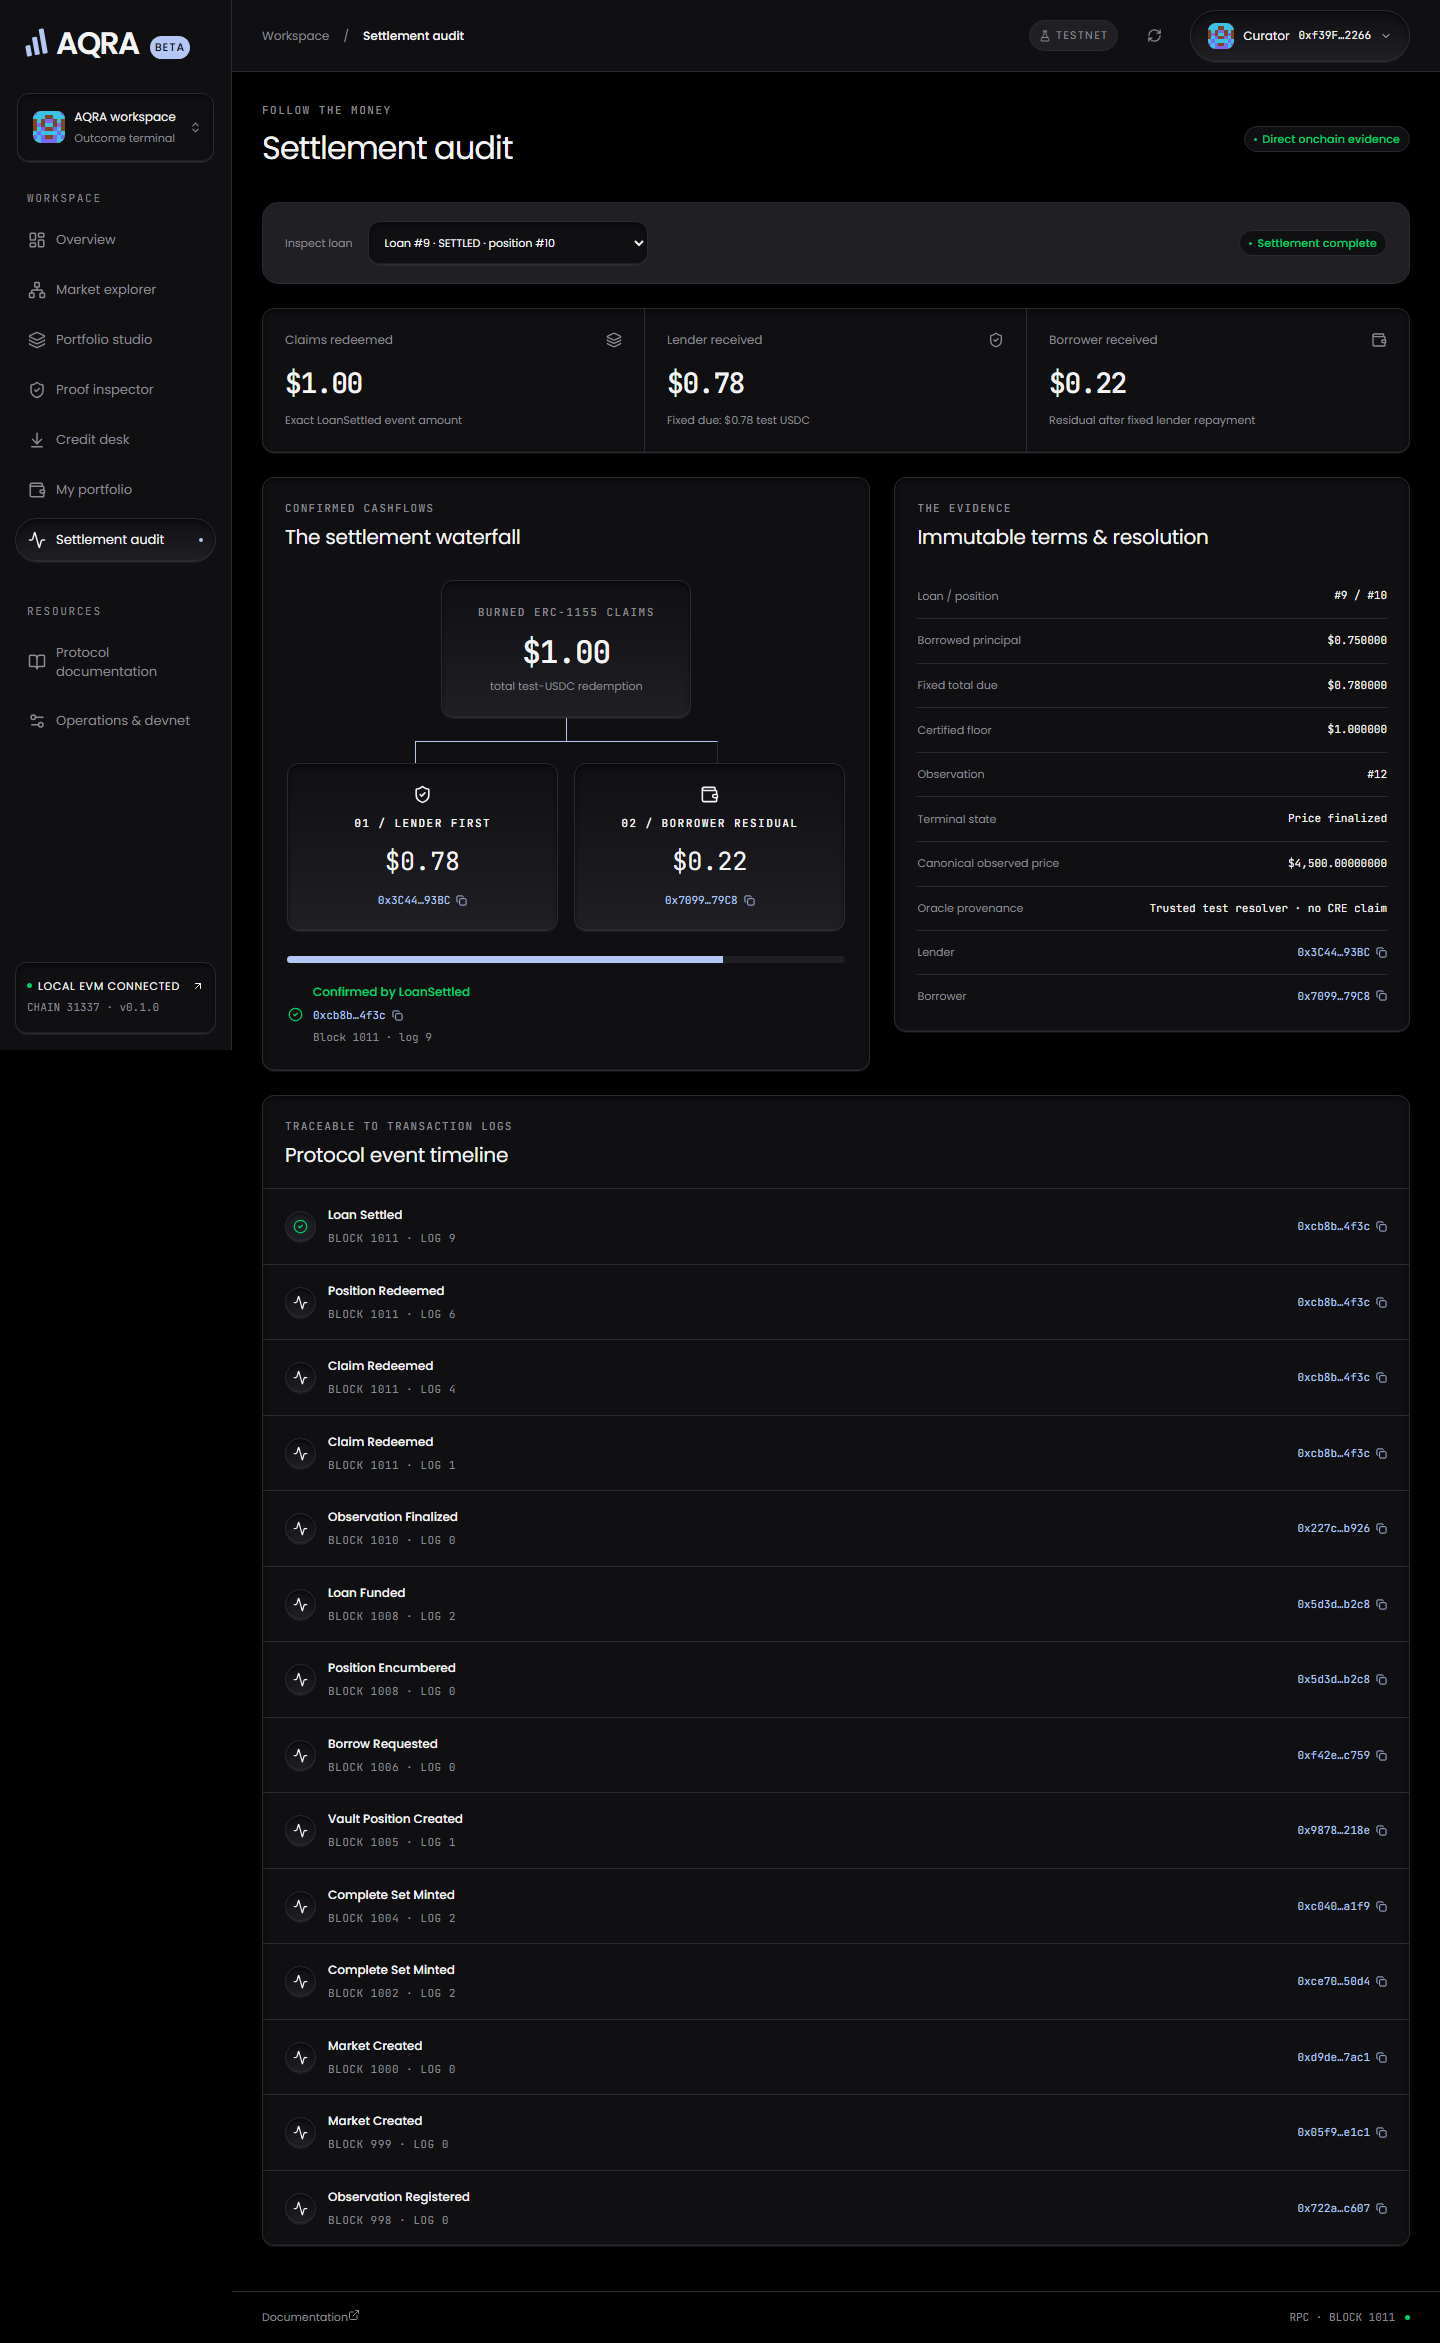
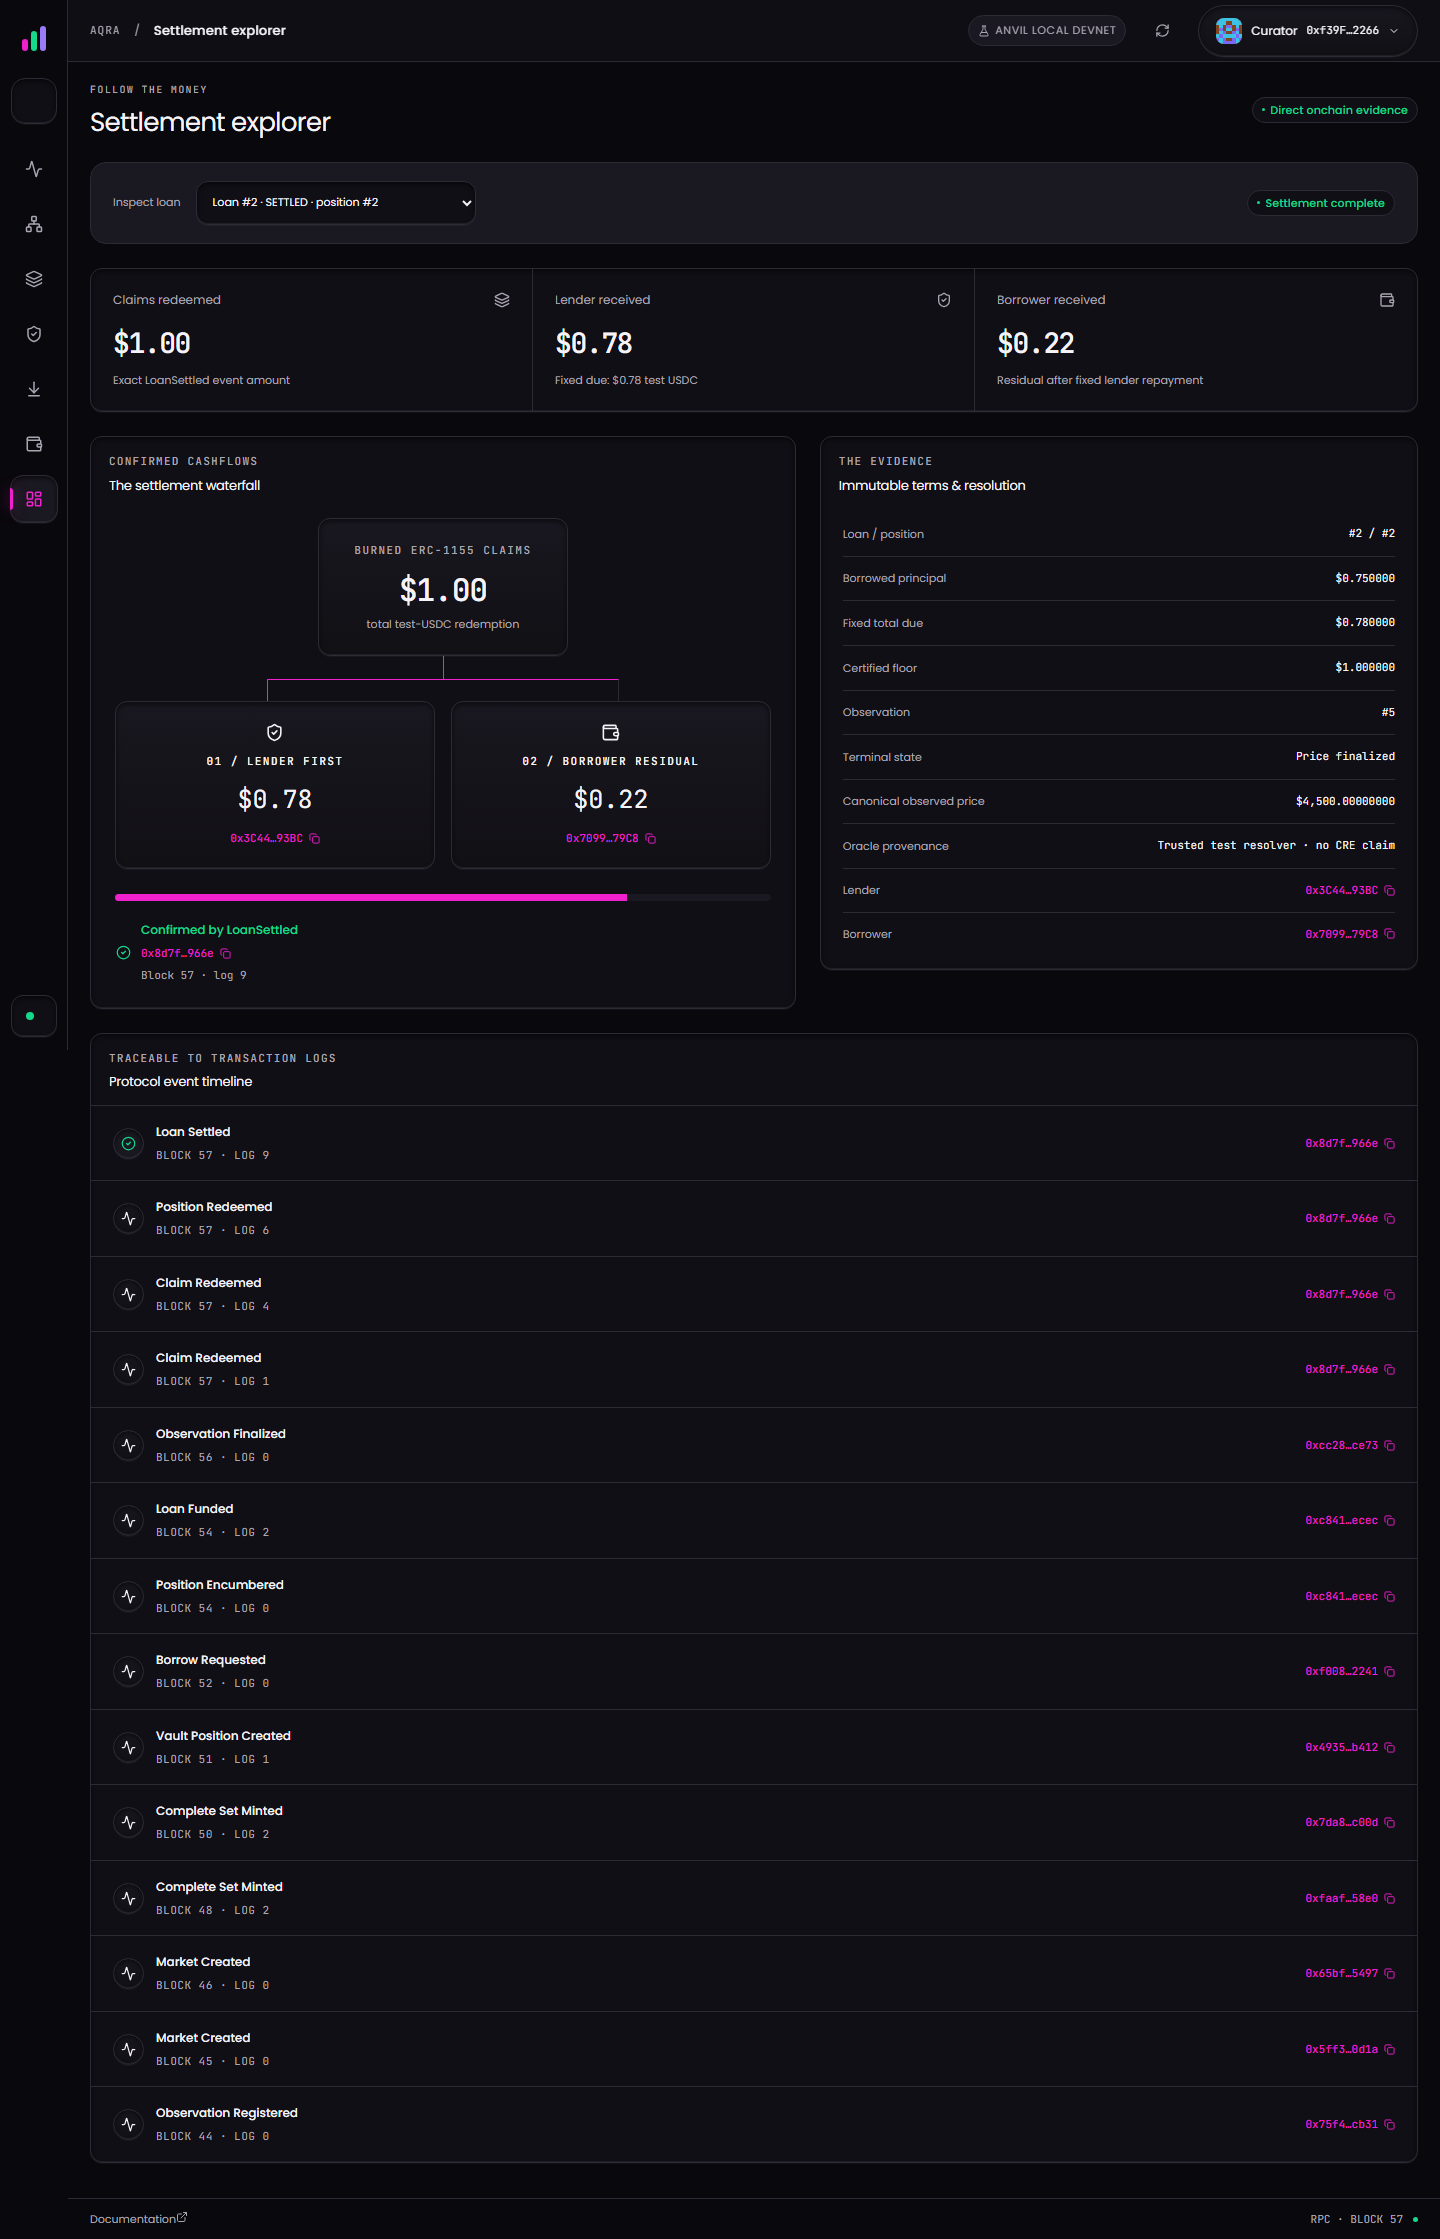
test(e2e): align wallet journeys with market-first UI

diff --git a/e2e/protocol.spec.ts b/e2e/protocol.spec.ts
@@ -10,16 +10,24 @@ const balance=(who:'borrower'|'lender')=>client.readContract({address:d.contract
 const results:unknown[]=[];
 test.describe.serial('wallet-signed outcome collateral lifecycle',()=>{
   test.beforeAll(async()=>{await import('../scripts/differential');});
-  test('interactive command center changes exact payouts and rotates its 3D surface',async({page})=>{
-    await page.goto('/');await expect(page.getByTestId('payoff-surface')).toBeVisible();
-    await expect(page.getByTestId('overview-scenario-payout')).toContainText('$2.00');
-    await page.getByTestId('overview-below').click();await expect(page.getByTestId('overview-scenario-payout')).toContainText('$1.00');
-    await page.getByTestId('overview-cancelled').click();await expect(page.getByTestId('overview-scenario-payout')).toContainText('$1.00');
-    await page.getByTestId('overview-inside').click();
-    const svg=page.getByTestId('payoff-surface').locator('svg'),before=await svg.locator('polygon').first().getAttribute('points'),box=(await svg.boundingBox())!;
-    await page.mouse.move(box.x+box.width*.4,box.y+box.height*.6);await page.mouse.down();await page.mouse.move(box.x+box.width*.6,box.y+box.height*.6,{steps:8});await page.mouse.up();
-    expect(await svg.locator('polygon').first().getAttribute('points')).not.toBe(before);
-    await page.getByRole('button',{name:'State matrix',exact:true}).click();await expect(svg.locator('rect')).toHaveCount(78);
+  test('portfolio composer recalculates payouts for settlement prices and cancellation',async({page})=>{
+    await page.goto('/compose/');await expect(page.getByRole('heading',{name:'Portfolio composer'})).toBeVisible();
+    const payout=page.locator('.chart-summary strong').first();await expect(payout).toContainText('$2.00');
+    const price=page.getByRole('textbox',{name:'Scenario settlement price'});
+    await price.fill('4000');await expect(payout).toContainText('$1.00');
+    await page.getByRole('button',{name:'Explore cancellation result'}).click();await expect(payout).toContainText('$1.00');
+    await page.getByRole('button',{name:'Use price settlement'}).click();
+    await price.fill('5500');await expect(payout).toContainText('$2.00');
+    const slider=page.getByRole('slider',{name:'Explore settlement price'}),before=await slider.inputValue();await slider.focus();await page.keyboard.press('ArrowRight');await expect(slider).not.toHaveValue(before);
+  });
+  test('market terminal mints fully backed complete sets onchain',async({page})=>{
+    await page.goto('/');await expect(page.getByRole('heading',{name:'Market terminal'})).toBeVisible();await connect(page,'borrower');await page.getByRole('tab',{name:/AQRA collateral/}).click();
+    const marketId=BigInt(await page.getByLabel('Choose an AQRA collateral market').inputValue());
+    const yesToken=marketId*2n+1n,noToken=yesToken+1n;
+    const readBalance=(tokenId:bigint)=>client.readContract({address:d.contracts.OutcomeTokens,abi:OutcomeTokensAbi,functionName:'balanceOf',args:[d.roles.borrower,tokenId]});
+    const beforeYes=await readBalance(yesToken),beforeNo=await readBalance(noToken);
+    const mint=page.getByTestId('mint-complete-set');await expect(mint).toBeEnabled();await mint.click();
+    await expect.poll(()=>readBalance(yesToken)).toBe(beforeYes+1n);await expect.poll(()=>readBalance(noToken)).toBe(beforeNo+1n);
   });
   test('outcome palette supports drag and keyboard selection',async({page})=>{
     await page.goto('/compose/');
@@ -51,7 +59,7 @@ test.describe.serial('wallet-signed outcome collateral lifecycle',()=>{
       const observationId=await client.readContract({address:d.contracts.SharedObservationRegistry,abi:SharedObservationRegistryAbi,functionName:'observationCount'});
       await bp.goto('/compose/');await connect(bp,'borrower');
       await bp.getByTestId('lower-market').selectOption(lower.toString());await bp.getByTestId('upper-market').selectOption(upper.toString());
-      const mintButtons=bp.getByRole('button',{name:'Mint a funded complete set'});
+      const mintButtons=bp.getByRole('button',{name:'Mint complete set'});
       await mintButtons.nth(0).click();await expect.poll(()=>client.readContract({address:d.contracts.OutcomeTokens,abi:OutcomeTokensAbi,functionName:'balanceOf',args:[d.roles.borrower,lower*2n+1n]})).toBe(1n);
       await expect(mintButtons.nth(1)).toBeEnabled();await mintButtons.nth(1).click();
       await expect.poll(()=>client.readContract({address:d.contracts.OutcomeTokens,abi:OutcomeTokensAbi,functionName:'balanceOf',args:[d.roles.borrower,upper*2n+2n]})).toBe(1n);
@@ -75,7 +83,7 @@ test.describe.serial('wallet-signed outcome collateral lifecycle',()=>{
       const loanId=await client.readContract({address:d.contracts.CreditDesk,abi:CreditDeskAbi,functionName:'loanCount'});
       expect(await balance('borrower')-beforeBorrower).toBe(750000n);expect(beforeLender-await balance('lender')).toBe(750000n);
       if(scenario==='repaid'){
-        await bp.getByRole('link',{name:'My portfolio',exact:true}).click();
+        await bp.getByRole('link',{name:'Portfolio dashboard',exact:true}).click();
         const b=await balance('borrower'),l=await balance('lender');
         await bp.getByTestId(`repay-${loanId}`).click();
         await expect.poll(async()=>(await client.readContract({address:d.contracts.CreditDesk,abi:CreditDeskAbi,functionName:'getLoan',args:[loanId]})).state).toBe(3);
@@ -89,7 +97,7 @@ test.describe.serial('wallet-signed outcome collateral lifecycle',()=>{
       await op.getByTestId('resolver-observation').selectOption(observationId.toString());await op.getByTestId(`scenario-${scenario}`).click();await expect(op.getByTestId('resolve-observation')).toBeEnabled();await op.getByTestId('resolve-observation').click();
       await expect.poll(async()=>(await client.readContract({address:d.contracts.SharedObservationRegistry,abi:SharedObservationRegistryAbi,functionName:'observation',args:[observationId]})).state).toBe(scenario==='cancelled'?2:1);
       const b=await balance('borrower'),l=await balance('lender');
-      await op.getByRole('link',{name:'Settlement audit',exact:true}).click();await expect(op.getByTestId('settle-loan')).toBeEnabled();await op.getByTestId('settle-loan').click();
+      await op.getByRole('link',{name:'Settlement explorer',exact:true}).click();await expect(op.getByTestId('settle-loan')).toBeEnabled();await op.getByTestId('settle-loan').click();
       await expect(op.getByText('Settlement complete',{exact:true})).toBeVisible();
       const expected=scenario==='inside'?2000000n:1000000n;
       expect(await balance('lender')-l).toBe(780000n);expect(await balance('borrower')-b).toBe(expected-780000n);
@@ -116,7 +124,7 @@ test.describe.serial('wallet-signed outcome collateral lifecycle',()=>{
   });
   test('responsive studio has no document overflow and keyboard controls remain usable',async({page})=>{
     await page.setViewportSize({width:390,height:844});await page.goto('/compose/');
-    await expect(page.getByRole('heading',{name:'Portfolio studio',exact:true})).toBeVisible();
+    await expect(page.getByRole('heading',{name:'Portfolio composer',exact:true})).toBeVisible();
     expect(await page.evaluate(()=>document.documentElement.scrollWidth<=window.innerWidth)).toBe(true);
     await page.getByTestId('lower-units').fill('3');await expect(page.getByTestId('lower-units')).toHaveValue('3');
     await page.screenshot({path:'evidence/screenshots/mobile-studio.png',fullPage:true});

diff --git a/e2e/theme.spec.ts b/e2e/theme.spec.ts
@@ -1,7 +1,7 @@
 import {test,expect} from '@playwright/test';
 test('Kimia foundations, contrast, keyboard chart and wallet focus are usable',async({page})=>{
   await page.goto('/');
-  await expect(page.locator('body')).toHaveCSS('background-color','rgb(0, 0, 0)');
+  await expect(page.locator('body')).toHaveCSS('background-color','rgb(9, 8, 12)');
   await expect(page.locator('body')).toHaveCSS('font-family',/Poppins/);
   await page.evaluate(()=>document.fonts.ready);
   expect(await page.evaluate(()=>document.fonts.check('400 16px Poppins'))).toBe(true);
@@ -13,10 +13,13 @@ test('Kimia foundations, contrast, keyboard chart and wallet focus are usable',a
     return {textRaised:ratio('--color-text-secondary','--color-surface-raised'),textMuted:ratio('--color-text-secondary','--color-surface-muted'),accentText:ratio('--color-on-accent','--color-accent'),control:ratio('--color-border-interactive','--color-surface-muted'),focus:ratio('--color-accent','--color-surface-raised')};
   });
   expect(ratios.textRaised).toBeGreaterThanOrEqual(4.5);expect(ratios.textMuted).toBeGreaterThanOrEqual(4.5);expect(ratios.accentText).toBeGreaterThanOrEqual(4.5);expect(ratios.control).toBeGreaterThanOrEqual(3);expect(ratios.focus).toBeGreaterThanOrEqual(3);
-  const svg=page.getByTestId('payoff-surface').locator('svg');await svg.focus();const before=await svg.locator('polygon').first().getAttribute('points');await svg.press('ArrowRight');expect(await svg.locator('polygon').first().getAttribute('points')).not.toBe(before);
+  await expect(page.getByRole('heading',{name:'Market terminal'})).toBeVisible();
+  const marketTab=page.getByRole('tab',{name:/Prediction markets/});await expect(marketTab).toHaveAttribute('aria-selected','true');
+  const graphLink=page.getByRole('link',{name:'Outcome graph',exact:true});await graphLink.click();await expect(page.getByRole('heading',{name:'Outcome graph'})).toBeVisible();
+  await page.goto('/compose/');const slider=page.getByRole('slider',{name:'Explore settlement price'});await slider.focus();const before=await slider.inputValue();await page.keyboard.press('ArrowRight');await expect(slider).not.toHaveValue(before);
   const account=page.getByTestId('sidebar-account-menu');await account.click();await expect(page.getByRole('dialog',{name:'Connect wallet'})).toBeVisible();await expect(page.getByTestId('connect-borrower')).toBeVisible();await page.keyboard.press('Escape');await expect(page.getByRole('dialog')).toBeHidden();await expect(account).toBeFocused();
   const menu=page.getByTestId('wallet-menu');await menu.click();await expect(page.getByRole('button',{name:'Close wallet dialog'})).toBeFocused();
   await page.keyboard.press('Shift+Tab');expect(await page.evaluate(()=>!!document.activeElement?.closest('[role=dialog]'))).toBe(true);
   await page.keyboard.press('Escape');await expect(page.getByRole('dialog')).toBeHidden();await expect(menu).toBeFocused();
-  await page.emulateMedia({reducedMotion:'reduce'});expect(await page.getByRole('link',{name:'Open portfolio studio'}).evaluate(e=>getComputedStyle(e).transitionDuration)).toBe('0s');
+  await page.emulateMedia({reducedMotion:'reduce'});expect(await page.getByRole('link',{name:'Portfolio composer',exact:true}).evaluate(e=>getComputedStyle(e).transitionDuration)).toBe('0s');
 });

diff --git a/e2e/offline.spec.ts b/e2e/offline.spec.ts
@@ -1,12 +1,14 @@
 import {test,expect} from '@playwright/test';
-test('recorded evidence loads promptly without RPC and cannot authorize wallet writes',async({page})=>{
+test('chain-dependent collateral actions stay unavailable without a live RPC',async({page})=>{
   await page.route('http://127.0.0.1:8545/**',route=>route.abort());
   await page.route('http://127.0.0.1:8545',route=>route.abort());
   await page.goto('/');
-  await expect(page.getByText('RECORDED DEVNET RUN',{exact:true})).toBeVisible({timeout:10000});
-  await expect(page.getByTestId('payoff-surface')).toBeVisible();
-  await page.getByTestId('overview-above').click();await expect(page.getByTestId('overview-scenario-payout')).toContainText('$1.00');
-  await page.getByRole('link',{name:'Portfolio studio',exact:true}).click();
+  await expect(page.getByRole('heading',{name:'Market terminal'})).toBeVisible();
+  await expect(page.locator('.network-card')).toHaveAttribute('aria-label','AQRA network unavailable',{timeout:10000});
+  await page.getByRole('tab',{name:/AQRA collateral/}).click();
+  await expect(page.getByText('No AQRA market selected')).toBeVisible();
+  await page.getByRole('link',{name:'Portfolio composer',exact:true}).click();
   await expect(page.getByTestId('lock-pair')).toBeDisabled();
-  await expect(page.getByText('Preview calculation',{exact:true})).toBeVisible();
+  await expect(page.getByText('Chain data unavailable',{exact:true})).toBeVisible();
+  await expect(page.getByText(/Illustrative ETH/)).toHaveCount(0);
 });

diff --git a/e2e/navigation.spec.ts b/e2e/navigation.spec.ts
@@ -1,0 +1,17 @@
+import {test,expect} from '@playwright/test';
+
+test('the seven terminal destinations are connected from the sidebar',async({page})=>{
+  await page.goto('/');
+  const navigation=page.getByRole('navigation',{name:'Main navigation'});
+  await expect(navigation.getByRole('link')).toHaveCount(7);
+  const screens=[
+    ['Outcome graph','Outcome graph'],
+    ['Portfolio composer','Portfolio composer'],
+    ['Proof inspector','Proof inspector'],
+    ['Credit desk','Credit desk'],
+    ['Portfolio dashboard','Portfolio dashboard'],
+    ['Settlement explorer','Settlement explorer'],
+    ['Market terminal','Market terminal'],
+  ] as const;
+  for(const [link,title] of screens){await navigation.getByRole('link',{name:link,exact:true}).click();await expect(page.getByRole('heading',{name:title,exact:true})).toBeVisible()}
+});
